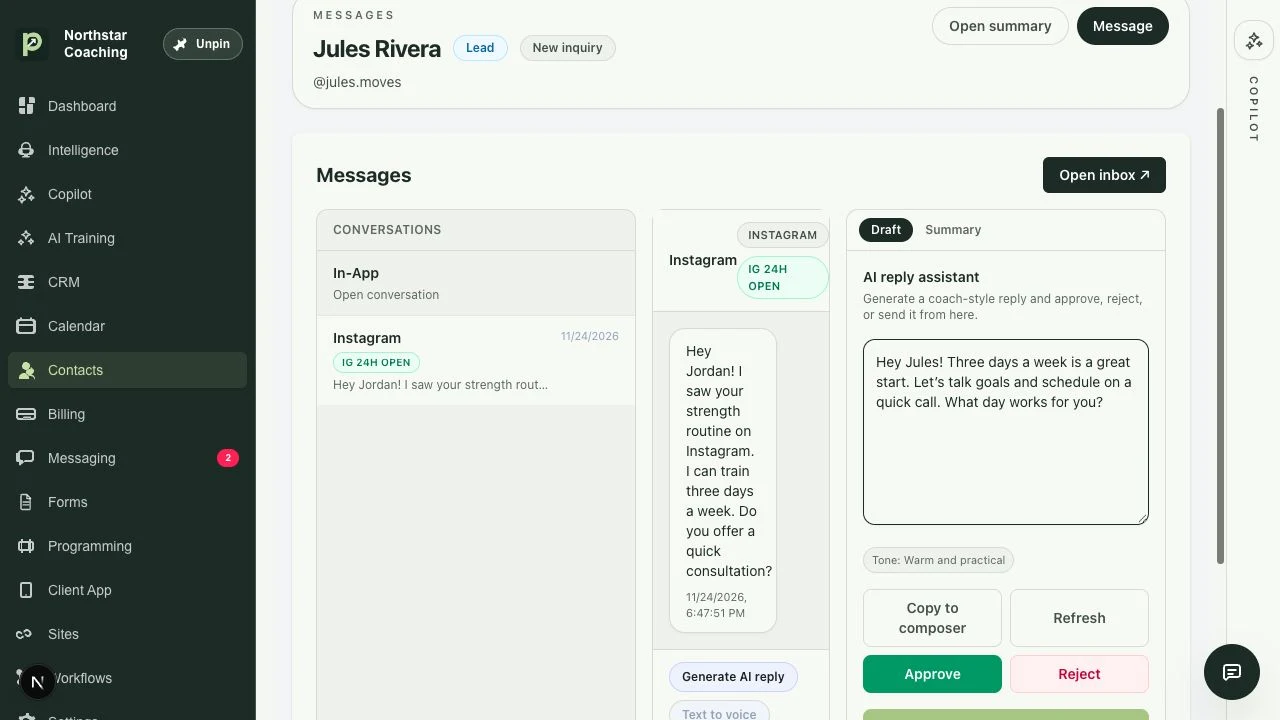
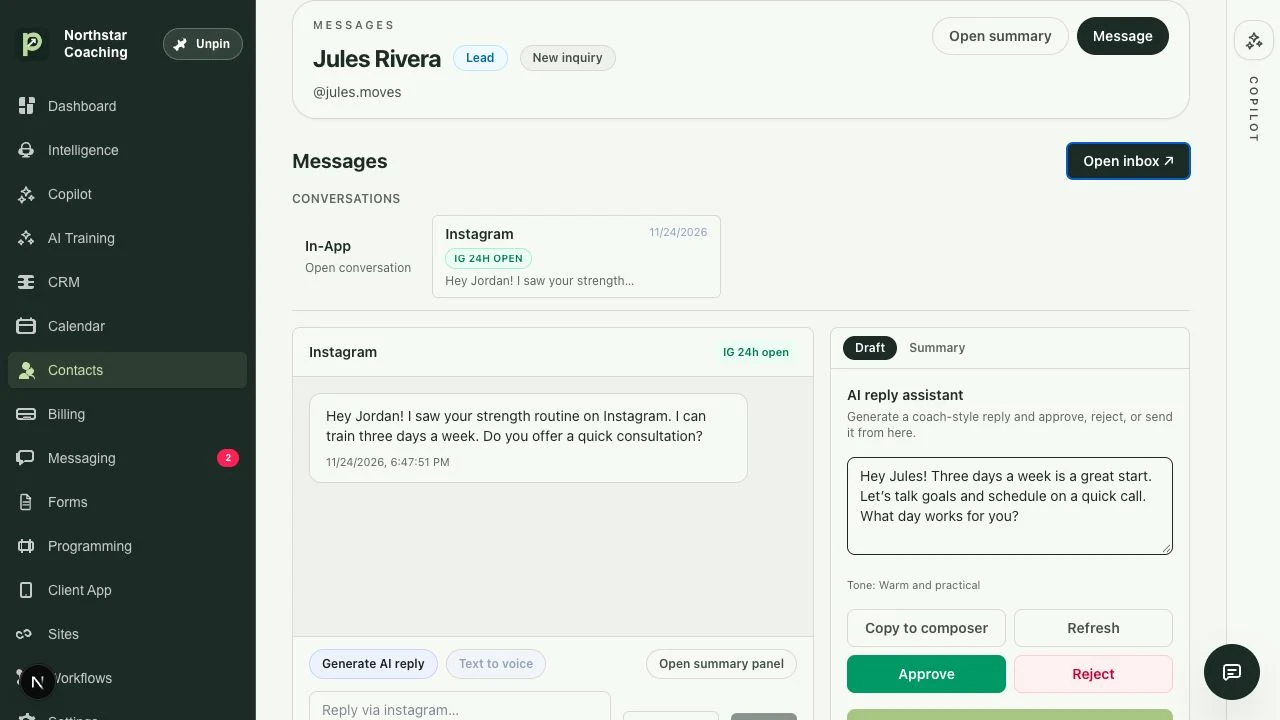
Refresh tour captures with simpler workspace layouts

diff --git a/powerstrong.html b/powerstrong.html
@@ -48,21 +48,21 @@
     <div class="tour-copy"><h3>Decide what needs attention</h3><p>Start on the dashboard to see hot leads, clients at risk, and upcoming meetings. Open the Intelligence queue to see why a lead was flagged and what to do next.</p></div>
     <div class="tour-frames">
       <figure><button class="capture" data-zoom aria-label="Enlarge Dashboard"><img src="assets/powerstrong/workspace-next-action.webp?v=20261125-unread" width="1280" height="720" alt="Coach dashboard with priorities and upcoming meetings" loading="lazy"></button><figcaption>Dashboard · Spot what needs attention.</figcaption></figure>
-      <figure><button class="capture" data-zoom aria-label="Enlarge Intelligence queue"><img src="assets/powerstrong/tour-intelligence.webp" width="1280" height="720" alt="Intelligence Action Queue with follow-up recommendations for Riley and Sam" loading="lazy"></button><figcaption>Intelligence queue · Review the signal and suggested follow-up.</figcaption></figure>
+      <figure><button class="capture" data-zoom aria-label="Enlarge Intelligence queue"><img src="assets/powerstrong/tour-intelligence.webp?v=20261125-layout" width="1280" height="720" alt="Intelligence Action Queue with follow-up recommendations for Riley and Sam" loading="lazy"></button><figcaption>Intelligence queue · Review the signal and suggested follow-up.</figcaption></figure>
     </div>
   </div>
   <div class="tour-panel" role="tabpanel" id="panel-relationships" aria-labelledby="tab-relationships" tabindex="0" hidden>
     <div class="tour-copy"><h3>Track leads and clients through the pipeline</h3><p>The sales pipeline shows who is at each stage. Alex Morgan is in Active coaching. Open his contact record to see the current stage, upcoming meeting, and training coverage.</p></div>
     <div class="tour-frames">
       <figure><button class="capture" data-zoom aria-label="Enlarge Pipeline board"><img src="assets/powerstrong/tour-pipeline.webp" width="1760" height="900" alt="Sales Pipeline board with Alex Morgan under Active coaching" loading="lazy"></button><figcaption>Pipeline board · Find Alex in Active coaching.</figcaption></figure>
-      <figure><button class="capture" data-zoom aria-label="Enlarge Contact record"><img src="assets/powerstrong/tour-contact.webp" width="1280" height="720" alt="Alex Morgan’s CRM profile showing his stage, next meeting, and program coverage" loading="lazy"></button><figcaption>Contact record · Review the stage and what comes next.</figcaption></figure>
+      <figure><button class="capture" data-zoom aria-label="Enlarge Contact record"><img src="assets/powerstrong/tour-contact.webp?v=20261125-layout" width="1280" height="720" alt="Alex Morgan’s CRM profile showing his stage, next meeting, and program coverage" loading="lazy"></button><figcaption>Contact record · Review the stage and what comes next.</figcaption></figure>
     </div>
   </div>
   <div class="tour-panel" role="tabpanel" id="panel-conversations" aria-labelledby="tab-conversations" tabindex="0" hidden>
     <div class="tour-copy"><h3>From Instagram inquiry to reply draft</h3><p>Jules asks about coaching in an Instagram DM. The inbox shows the original message and an editable consultation reply. The coach can also review the same thread from Jules’s contact record.</p></div>
     <div class="tour-frames">
       <figure><button class="capture" data-zoom aria-label="Enlarge Unified Inbox"><img src="assets/powerstrong/inbox-instagram-clean.webp" width="1280" height="720" alt="Unified Inbox showing Jules Rivera’s Instagram inquiry and consultation reply draft" loading="lazy"></button><figcaption>Unified Inbox · Open the inbound Instagram inquiry.</figcaption></figure>
-      <figure><button class="capture" data-zoom aria-label="Enlarge Contact messages"><img src="assets/powerstrong/tour-instagram-contact.webp" width="1280" height="720" alt="Jules Rivera’s contact messages showing the Instagram thread and draft review controls" loading="lazy"></button><figcaption>Contact messages · Review and approve the reply draft before sending.</figcaption></figure>
+      <figure><button class="capture" data-zoom aria-label="Enlarge Contact messages"><img src="assets/powerstrong/tour-instagram-contact.webp?v=20261125-layout" width="1280" height="720" alt="Jules Rivera’s contact messages showing the Instagram thread and draft review controls" loading="lazy"></button><figcaption>Contact messages · Review and approve the reply draft before sending.</figcaption></figure>
     </div>
   </div>
   <div class="tour-panel" role="tabpanel" id="panel-payments" aria-labelledby="tab-payments" tabindex="0" hidden>
@@ -89,7 +89,7 @@
   <div class="tour-panel" role="tabpanel" id="panel-sites" aria-labelledby="tab-sites" tabindex="0" hidden>
     <div class="tour-copy"><h3>Publish a page that leads to intake</h3><p>Build a landing page with the site editor, then publish it with a button that opens the coaching intake. Northstar uses its landing page to explain the service and give prospects a clear next step.</p></div>
     <div class="tour-frames">
-      <figure><button class="capture" data-zoom aria-label="Enlarge Sites editor"><img src="assets/powerstrong/tour-site-editor.webp" width="1280" height="720" alt="Northstar coaching landing page open in the Sites editor" loading="lazy"></button><figcaption>Sites editor · Set the page content, styling, and publishing options.</figcaption></figure>
+      <figure><button class="capture" data-zoom aria-label="Enlarge Sites editor"><img src="assets/powerstrong/tour-site-editor.webp?v=20261125-layout" width="1280" height="720" alt="Northstar coaching landing page open in the Sites editor" loading="lazy"></button><figcaption>Sites editor · Set the page content, styling, and publishing options.</figcaption></figure>
       <figure><button class="capture" data-zoom aria-label="Enlarge Published page"><img src="assets/powerstrong/tour-site-public.webp" width="1280" height="720" alt="Published Northstar coaching landing page with a button to open the intake form" loading="lazy"></button><figcaption>Published page · Give prospects a direct link to the intake.</figcaption></figure>
     </div>
   </div>
@@ -140,7 +140,7 @@ Review and approve the draft to create it in Sites.</blockquote></div></details>
     </li>
     <li class="flow-stage" id="flow-site-2">
       <header class="flow-stage-heading"><span class="flow-number">02</span><div><h4>Edit the page in Sites</h4><p>Approval creates a draft in Sites. The coach can revise the generated blocks and preview the page before publishing.</p></div></header>
-      <figure class="flow-frame"><button class="capture" data-zoom aria-label="Enlarge Edit the page in Sites"><img src="assets/powerstrong/action-site-editor.webp" width="1280" height="720" alt="Sites editor showing the generated Strength Reset headline and subheading." loading="lazy"></button><figcaption>Sites · Editable Strength Reset page draft.</figcaption></figure>
+      <figure class="flow-frame"><button class="capture" data-zoom aria-label="Enlarge Edit the page in Sites"><img src="assets/powerstrong/action-site-editor.webp?v=20261125-layout" width="1280" height="720" alt="Sites editor showing the generated Strength Reset headline and subheading." loading="lazy"></button><figcaption>Sites · Editable Strength Reset page draft.</figcaption></figure>
     </li>
   </ol>
 </div>
